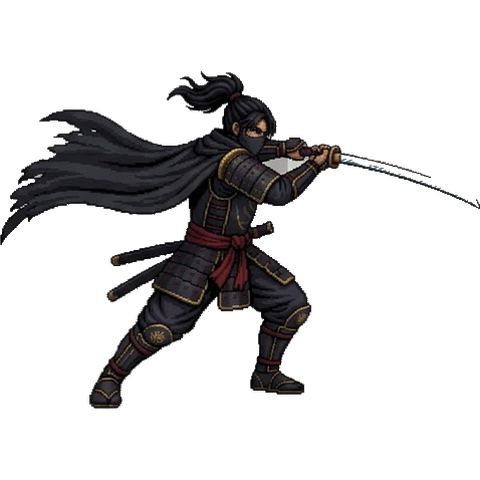
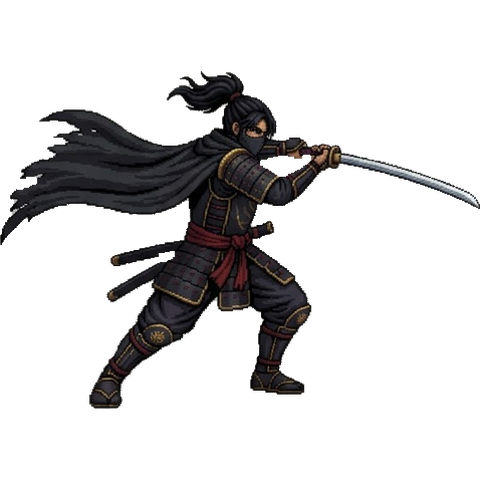
feat(st2): 일섬 기본 3딜 + 레어(보라) 오의 강화 · 연속 베기 개명 · 포즈 이미지 교체
- 일섬: 관통 피해 2 → 기본 3, 런 상태(soulDmg/soulMax)로 승격
- 레어 보상(보라 글로우 카드, 가끔 등장): '오의 연마' 피해 +2(반복 가능, 18%),
  '혼의 그릇' 게이지 3→2 충전 단축(1회 한정, 12%)
- 기술패 '베기' → '연속 베기' 개명
- hero_iai/hero_atk를 character2/3_480.png 기준으로 재생성(발도는 좌우 반전 정규화)
- 검증 69케이스 ×4회 통과(3딜 관통, +2 연마, 게이지 바닥 2 클램프, 레어 렌더)

diff --git a/apps/games/st2/index.html b/apps/games/st2/index.html
@@ -154,6 +154,9 @@
       footer a { color: var(--dim); }
       .reward-opts { display: grid; gap: 8px; max-width: 420px; margin: 14px auto 0; }
       .reward-opts .tile { text-align: center; position: relative; padding-top: 12px; }
+      .reward-opts .tile.rare { border-color: #8a5cff; box-shadow: 0 0 14px rgba(138,92,255,.35), inset 0 0 22px rgba(138,92,255,.08); }
+      .reward-opts .tile.rare .t-name { color: #b98cff; text-shadow: 0 0 8px rgba(138,92,255,.55); }
+      .reward-opts .tile.rare .r-num { border-color: #8a5cff; color: #b98cff; }
       .r-num { position: absolute; top: 6px; left: 8px; width: 20px; height: 20px; display: flex; align-items: center; justify-content: center; font-family: var(--font); font-size: 11px; font-weight: 700; color: var(--gold); border: 1px solid var(--gold); border-radius: 5px; background: rgba(217,164,65,.1); }
       .r-giveup { opacity: .75; } .r-giveup .t-name { color: var(--red); } .r-giveup .r-num { color: var(--red); border-color: var(--red); background: rgba(201,67,47,.08); }
     </style>
@@ -184,7 +187,7 @@
 
       /* 기술패 도감 (오리지널) */
       var TILE_DEFS = {
-        seg:  { key: 'seg',  name: '베기',   glyph: '斬', cd: 2, dmg: 1, hits: 2, info: function (t) { return '전방 1칸 ' + t.dmg + '딜 ×2연타'; } },
+        seg:  { key: 'seg',  name: '연속 베기', glyph: '斬', cd: 2, dmg: 1, hits: 2, info: function (t) { return '전방 1칸 ' + t.dmg + '딜 ×2연타'; } },
         hoe:  { key: 'hoe',  name: '회전베기', glyph: '旋', cd: 4, dmg: 1, info: function (t) { return '양옆 1칸 ' + t.dmg + '딜'; } },
         su:   { key: 'su',   name: '수리검', glyph: '手', cd: 3, dmg: 1, info: function (t) { return '전방 직선 첫 적 ' + t.dmg + '딜'; } },
         mil:  { key: 'mil',  name: '밀치기', glyph: '押', cd: 2, dmg: 0, info: function (t) { return '전방 적 2칸 넉백' + (t.dmg ? ' +' + t.dmg + '딜' : '') + ' (벽 충돌 시 1딜)'; } },
@@ -637,7 +640,7 @@
           runId: ++runSeq, lock: false,
           screen: 'play', stage: 0, wave: 0, turn: 0, kills: 0,
           p: { pos: 4, dir: 1, hp: 3, maxHp: 3 },
-          soul: 0,
+          soul: 0, soulDmg: 3, soulMax: SOULMAX,
           tiles: [mkTile('seg'), mkTile('bal'), mkTile('su')],
           queue: [], foes: [], log: '무사의 길이 열렸다. 적의 예고(⚠)를 읽어라.',
           over: false, won: false, reward: null,
@@ -704,8 +707,8 @@
         if (f.hp <= 0) {
           S.kills++; SFX.hit();
           if (!S.soulCasting) {
-            S.soul = Math.min(SOULMAX, S.soul + 1);
-            if (S.soul >= SOULMAX) SFX.soulReady(); else SFX.soulUp();
+            S.soul = Math.min(S.soulMax, S.soul + 1);
+            if (S.soul >= S.soulMax) SFX.soulReady(); else SFX.soulUp();
             S.log = why + ' — ' + f.name + ' 격파! (魂 +1)';
           } else S.log = why + ' — ' + f.name + ' 격파!';
         }
@@ -865,7 +868,11 @@
         var cdT = S.tiles.filter(function (t) { return t.cd > 1; });
         if (cdT.length) { var c = cdT[(Math.random() * cdT.length) | 0]; opts.push({ kind: 'cd', key: c.key, label: c.name + ' 단련', desc: '쿨다운 -1 (현재 ' + c.cd + '턴)' }); }
         opts.push({ kind: 'hp', label: '요양', desc: '최대 체력 +1 · 전체 회복' });
-        return opts.slice(0, 3);
+        /* 레어(보라) — 오의 강화는 가끔만 뜬다 */
+        var rares = [];
+        if (Math.random() < 0.18) rares.push({ kind: 'soul_dmg', rare: 1, label: '오의 연마 · 일섬', desc: '일섬 피해 +2 (현재 ' + S.soulDmg + ')' });
+        if (S.soulMax > 2 && Math.random() < 0.12) rares.push({ kind: 'soul_max', rare: 1, label: '혼의 그릇 · 일섬', desc: '혼 게이지 ' + S.soulMax + ' → ' + (S.soulMax - 1) + ' (충전 단축)' });
+        return rares.concat(opts).slice(0, 3);
       }
       function pickReward(i) {
         if (!S || !S.reward || !S.reward[i]) return;
@@ -874,6 +881,8 @@
         else if (o.kind === 'dmg') S.tiles.forEach(function (t) { if (t.key === o.key) t.dmg++; });
         else if (o.kind === 'cd') S.tiles.forEach(function (t) { if (t.key === o.key) t.cd = Math.max(1, t.cd - 1); });
         else if (o.kind === 'hp') { S.p.maxHp++; S.p.hp = S.p.maxHp; }
+        else if (o.kind === 'soul_dmg') S.soulDmg += 2;
+        else if (o.kind === 'soul_max') S.soulMax = Math.max(2, S.soulMax - 1);
         S.reward = null;
         S.wave++;
         if (S.wave >= S.stageWaves.length) { S.stage++; S.wave = 0; S.stageWaves = wavesFor(S.stage); }
@@ -899,7 +908,7 @@
           if (!t || t.cdLeft > 0 || S.queue.length >= QMAX || S.queue.indexOf(arg) >= 0) return;
           S.queue.push(arg); SFX.queue(); S.log = t.name + ' 준비 (' + S.queue.length + '/' + QMAX + ')';
         } else if (type === 'soul') {
-          if (S.soul < SOULMAX) { S.log = '혼이 아직 차오르지 않았다. (魂 ' + S.soul + '/' + SOULMAX + ')'; render(); return; }
+          if (S.soul < S.soulMax) { S.log = '혼이 아직 차오르지 않았다. (魂 ' + S.soul + '/' + S.soulMax + ')'; render(); return; }
           var d2 = p.dir;
           var targets = S.foes.filter(function (f2) { return f2.hp > 0 && (d2 > 0 ? f2.pos > p.pos : f2.pos < p.pos); });
           if (!targets.length) { S.log = '전방에 벨 적이 없다.'; render(); return; }
@@ -911,7 +920,7 @@
           var landing = far + d2;
           if (!inBoard(landing)) landing = far;
           for (var cpos = p.pos + d2; d2 > 0 ? cpos <= far : cpos >= far; cpos += d2) FX.dash.push(cpos);
-          targets.forEach(function (f2) { hitFoe(f2, 2, '일섬'); });
+          targets.forEach(function (f2) { hitFoe(f2, S.soulDmg, '일섬'); });
           while (foeAt(landing) && landing !== p.pos) landing -= d2;
           p.pos = landing;
           S.soulCasting = false;
@@ -1007,7 +1016,7 @@
         $g.innerHTML =
           '<div class="hud"><span class="hp">' + '♥'.repeat(S.p.hp) + '<span style="opacity:.25">' + '♥'.repeat(Math.max(0, S.p.maxHp - S.p.hp)) + '</span></span>' +
           '<span class="st">STAGE ' + (S.stage + 1) + '/15 · WAVE ' + (S.wave + 1) + ' · TURN ' + S.turn + '</span>' +
-          '<span class="soul" title="적을 격파하면 혼이 차오른다">魂 ' + '●'.repeat(S.soul) + '<span style="opacity:.3">' + '●'.repeat(SOULMAX - S.soul) + '</span></span>' +
+          '<span class="soul" title="적을 격파하면 혼이 차오른다">魂 ' + '●'.repeat(S.soul) + '<span style="opacity:.3">' + '●'.repeat(Math.max(0, S.soulMax - S.soul)) + '</span></span>' +
           '<span class="score">SCORE ' + score() + '</span>' +
           '<button class="mute" id="mute" title="사운드 켜기/끄기">' + (AU.muted ? '🔇' : '🔊') + '</button>' +
           '<button class="giveup" id="giveup" title="항복하고 처음부터">' + (surrenderArm ? '정말?' : '🏳 항복') + '</button></div>' +
@@ -1015,7 +1024,7 @@
           (FX.flash ? '<div class="fullflash"></div>' : '') +
           '<div class="intent">' + (intents.length ? '⚠ 예고: ' + intents.join(' · ') : '적이 다음 수를 노린다…') + '</div>' +
           '<div class="log">» ' + S.log + '</div>' +
-          '<div class="queue"><span class="q-label">COMBO</span>' + qs + '<button class="btn-soul" id="soul" ' + (S.soul >= SOULMAX ? '' : 'disabled') + '>魂 일섬</button>' +
+          '<div class="queue"><span class="q-label">COMBO</span>' + qs + '<button class="btn-soul" id="soul" ' + (S.soul >= S.soulMax ? '' : 'disabled') + '>魂 일섬</button>' +
           '<button class="btn-strike" id="strike" ' + (S.queue.length ? '' : 'disabled') + '>발동!</button></div>' +
           '<div class="tiles">' + tiles + '</div>' +
           '<div class="moves">' +
@@ -1035,12 +1044,12 @@
           '적은 공격 전에 <b>⚠로 예고</b>한다 — 예고된 칸을 피하거나, 그 전에 베어라.<br />' +
           '기술패를 <b>콤보 큐(최대 3)</b>에 쌓고 <b>발동</b>하면 한 호흡에 집행된다. 사용한 패는 쿨다운.<br />' +
           '기술은 <b>바라보는 방향(▶/◀)</b>으로 나간다. 등 뒤는 <b>⇄ 전환</b>으로 지켜라.<br />' +
-          '적을 격파하면 <b>혼(魂)</b>이 차오른다. 3개가 모이면 오의 <b>일섬(一閃)</b> — 전방의 모든 적을 <b>관통하며 베어</b> 반대편으로 빠져나간다.<br />' +
+          '적을 격파하면 <b>혼(魂)</b>이 차오른다. 게이지가 가득 차면 오의 <b>일섬(一閃)</b> — 전방의 모든 적을 <b>관통하며 베어</b> 반대편으로 빠져나간다.<br />' +
           '웨이브를 이기면 보상 — 새 기술·강화·회복. <b>다이묘</b>가 3·6·9·12 스테이지마다 길을 막고, <b>15 스테이지의 쇼군</b>을 베면 천하통일.</div></div>';
       }
       function rewardHtml() {
         return '<div class="screen"><h1 style="font-size:22px">승리의 대가</h1><div class="sub">하나를 고르시오 — 숫자키 <b>1·2·3</b> (4 = 항복)</div><div class="reward-opts">' +
-          S.reward.map(function (o, i) { return '<button class="tile" data-r="' + i + '"><span class="r-num">' + (i + 1) + '</span><div class="t-name">' + esc(o.label) + '</div><div class="t-info">' + esc(o.desc) + '</div></button>'; }).join('') +
+          S.reward.map(function (o, i) { return '<button class="tile' + (o.rare ? ' rare' : '') + '" data-r="' + i + '"><span class="r-num">' + (i + 1) + '</span><div class="t-name">' + esc(o.label) + '</div><div class="t-info">' + esc(o.desc) + '</div></button>'; }).join('') +
           '<button class="tile r-giveup" data-r="give"><span class="r-num">4</span><div class="t-name">🏳 항복</div><div class="t-info">런을 포기하고 처음부터 다시</div></button>' +
           '</div></div>';
       }
